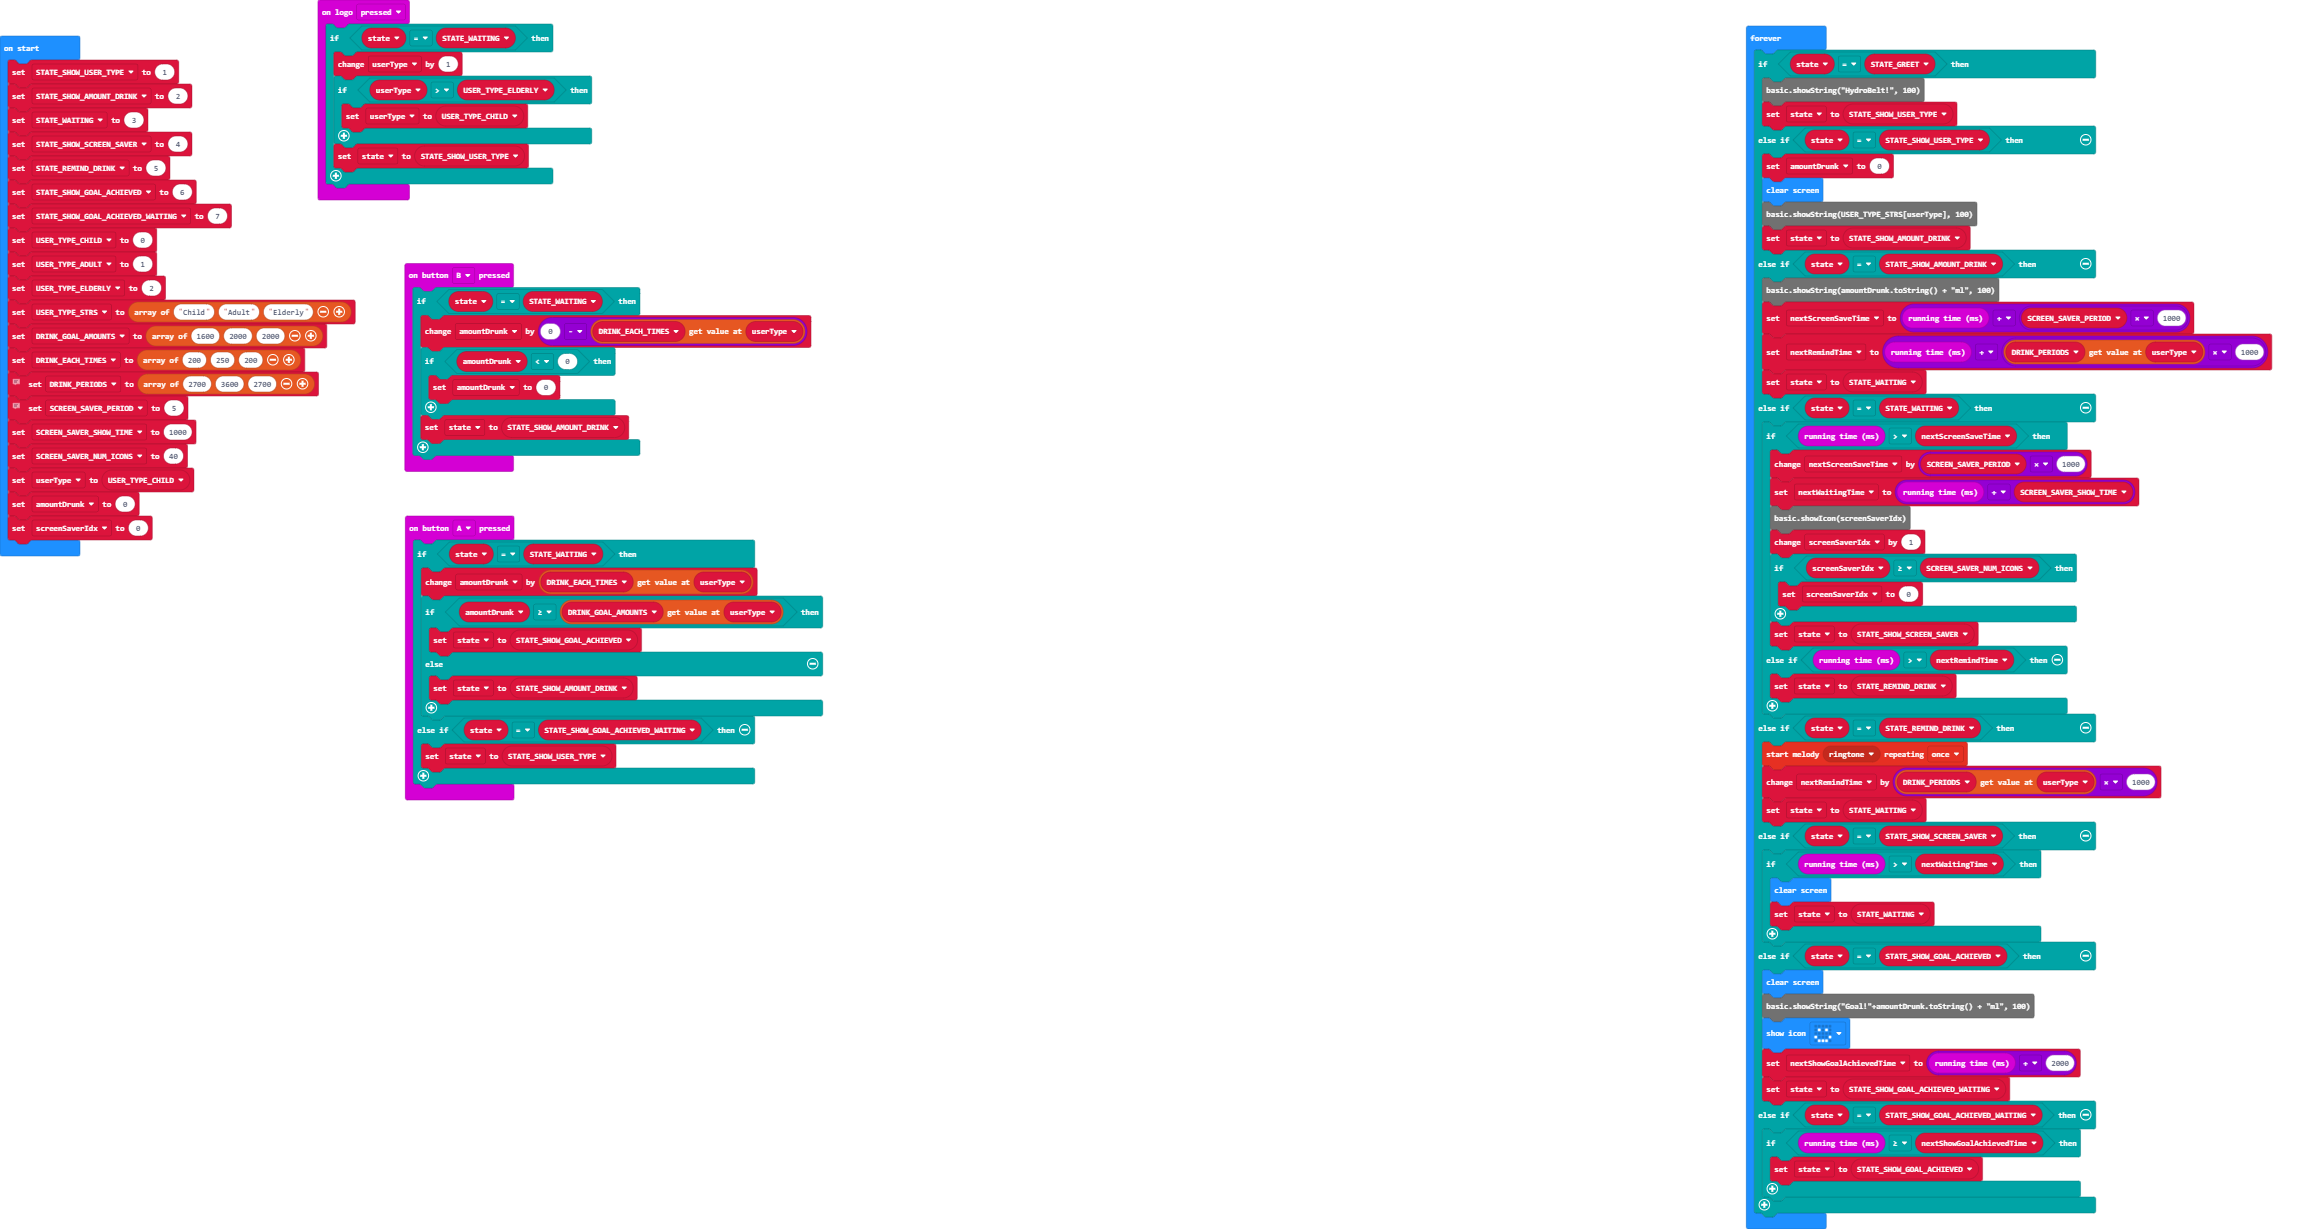
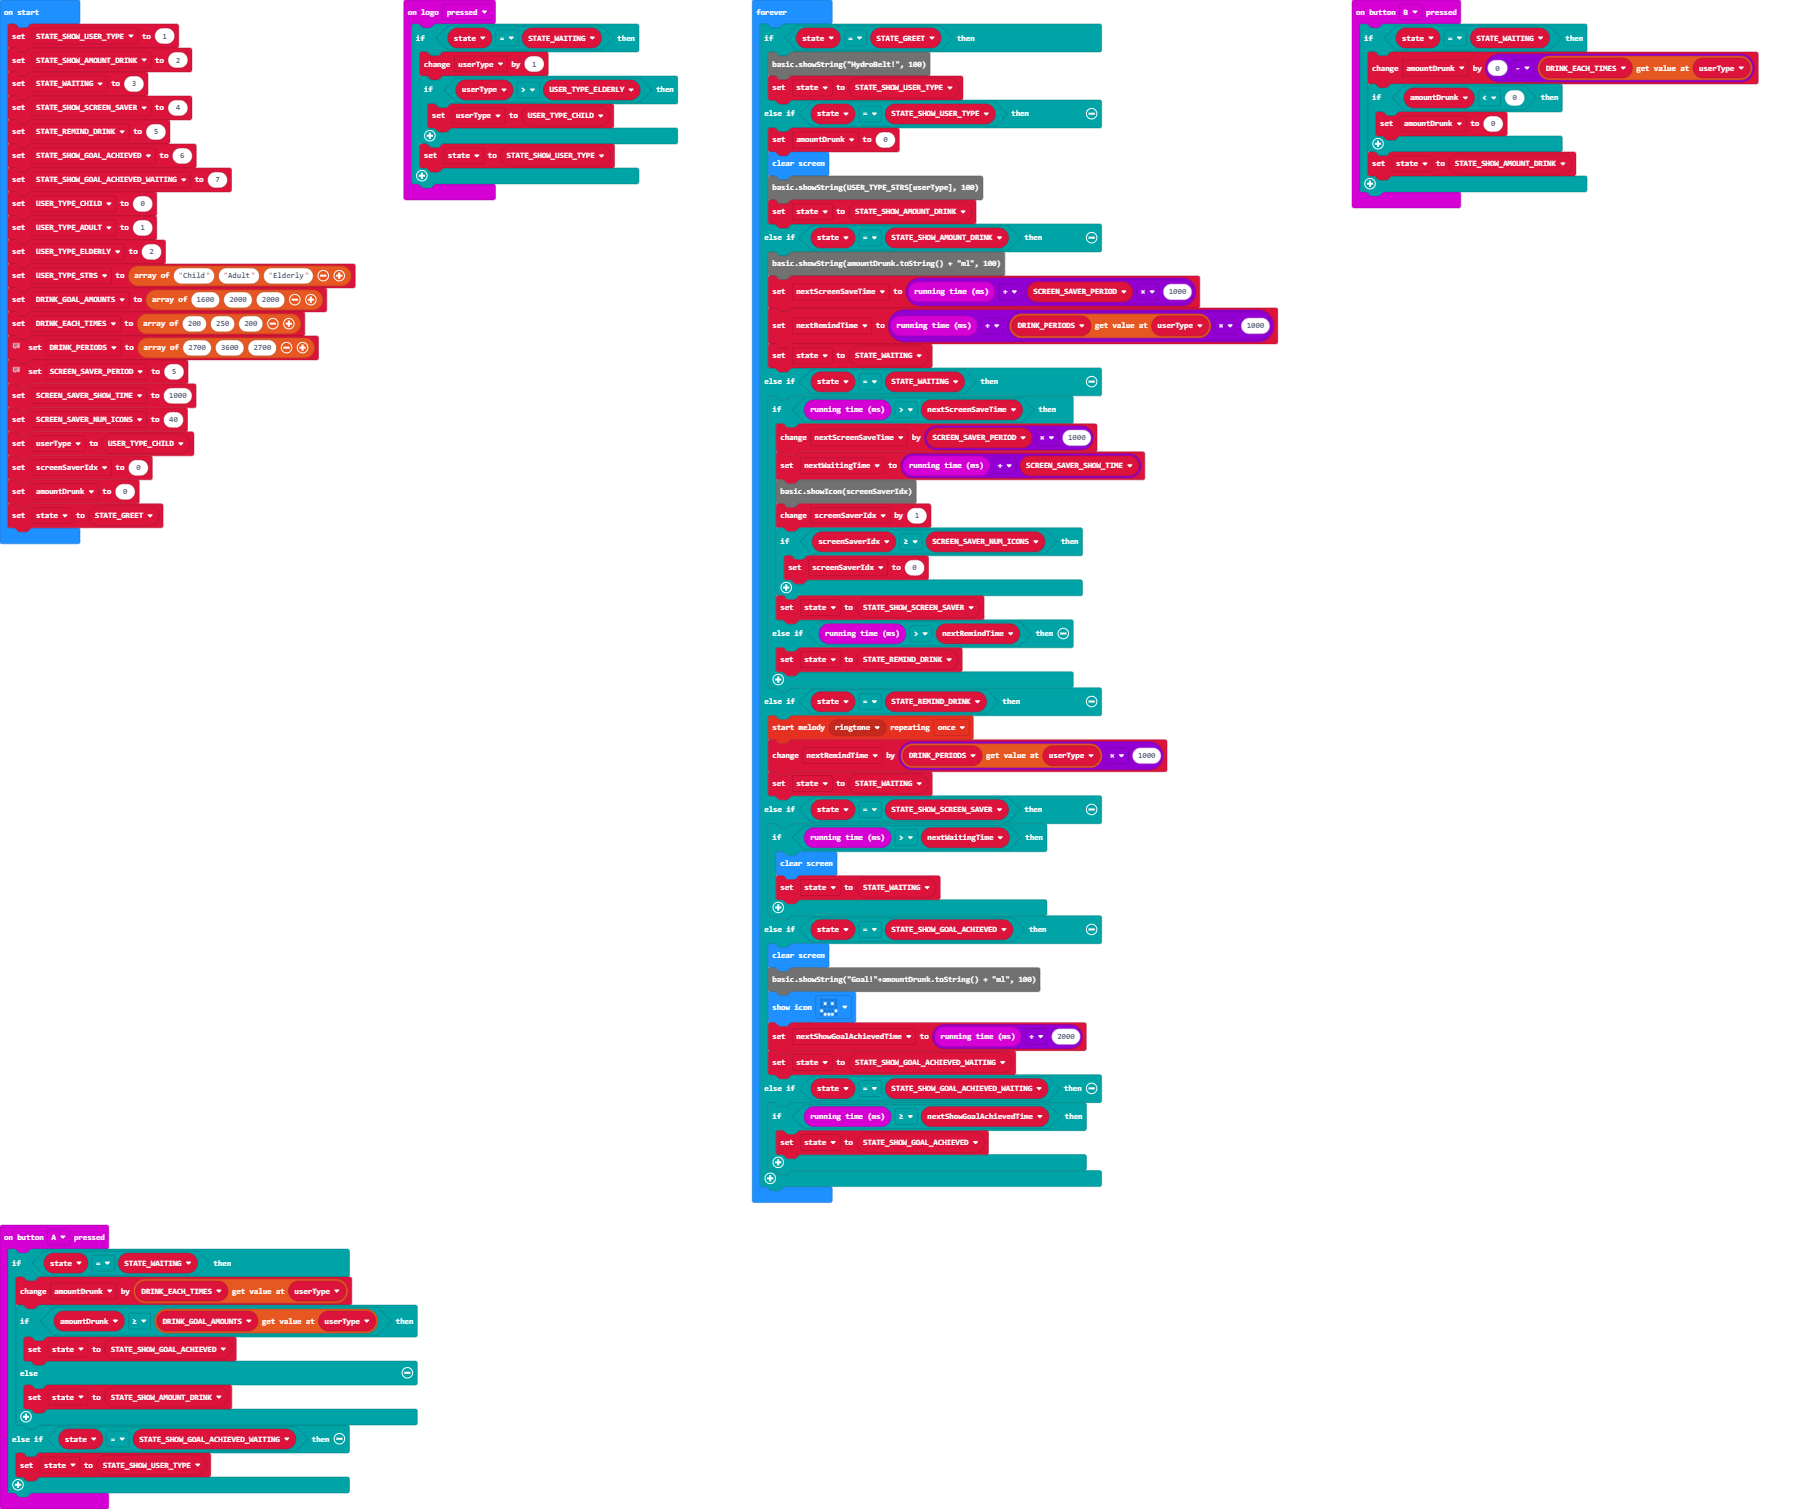
added state varaible in block

diff --git a/main.ts b/main.ts
@@ -32,6 +32,7 @@ let nextShowGoalAchievedTime = 0
 let nextWaitingTime = 0
 let nextRemindTime = 0
 let nextScreenSaveTime = 0
+let STATE_GREET = 0
 let state = 0
 let amountDrunk = 0
 let userType = 0
@@ -65,10 +66,10 @@ let SCREEN_SAVER_PERIOD = 5
 let SCREEN_SAVER_SHOW_TIME = 1000
 let SCREEN_SAVER_NUM_ICONS = 40
 userType = USER_TYPE_CHILD
-amountDrunk = 0
 let screenSaverIdx = 0
+amountDrunk = 0
+state = STATE_GREET
 basic.forever(function () {
-    let STATE_GREET = 0
     if (state == STATE_GREET) {
         basic.showString("HydroBelt!", 100)
 state = STATE_SHOW_USER_TYPE
